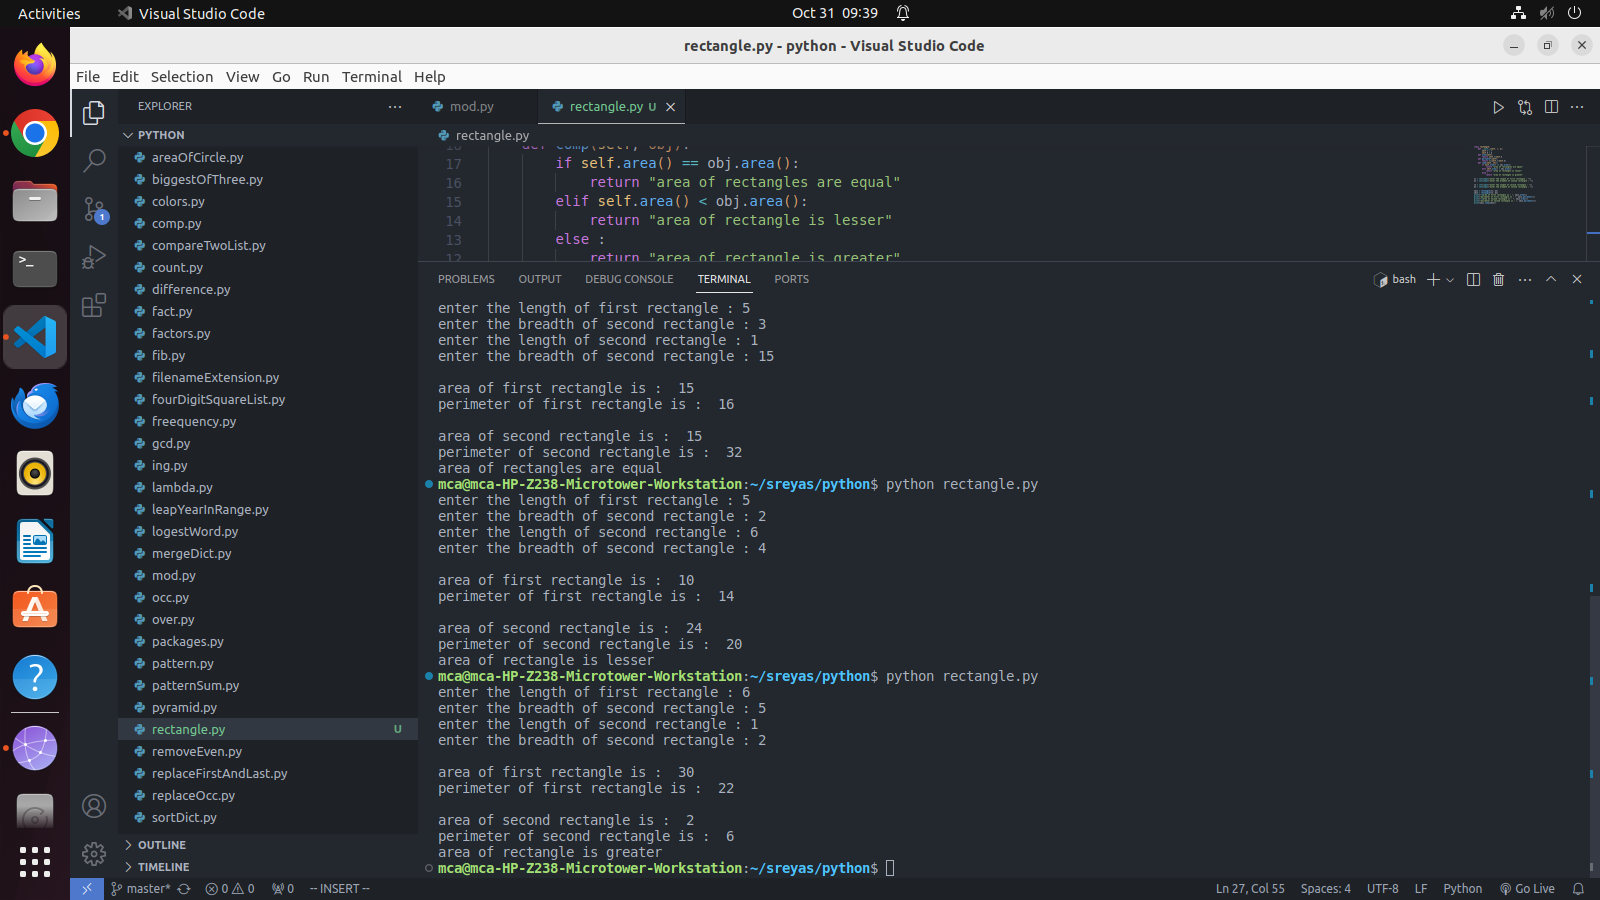
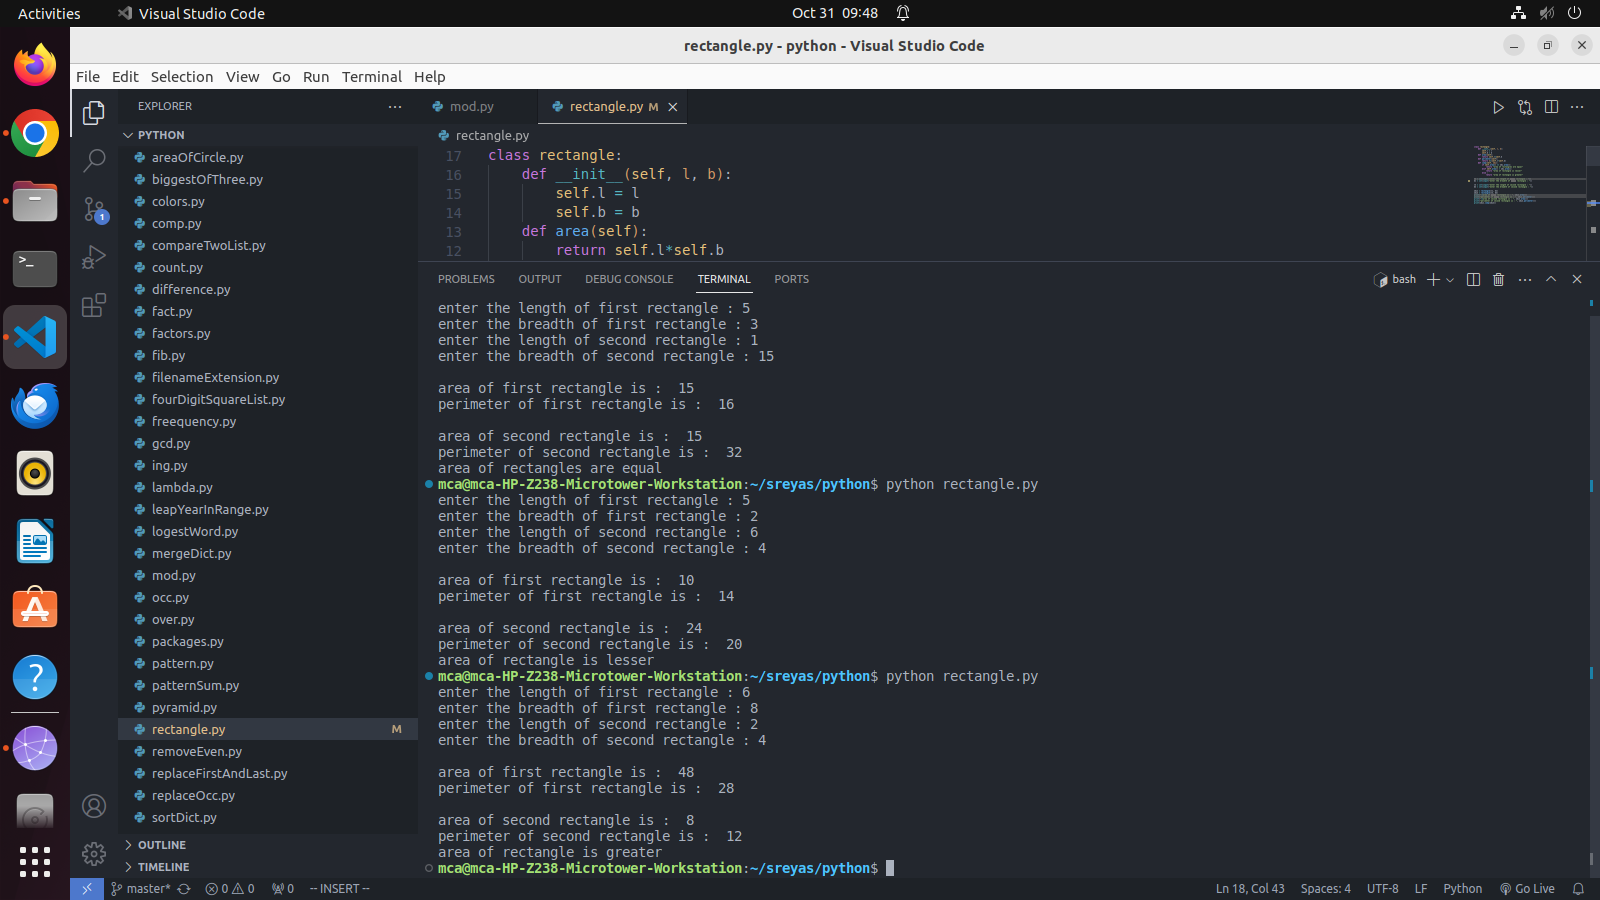
q33 code refactore

diff --git a/rectangle.py b/rectangle.py
@@ -15,7 +15,7 @@ class rectangle:
             return "area of rectangle is greater"
 
 l1 = int(input("enter the length of first rectangle : "))
-b1 = int(input("enter the breadth of second rectangle : "))
+b1 = int(input("enter the breadth of first rectangle : "))
 
 l2 = int(input("enter the length of second rectangle : "))
 b2 = int(input("enter the breadth of second rectangle : "))
